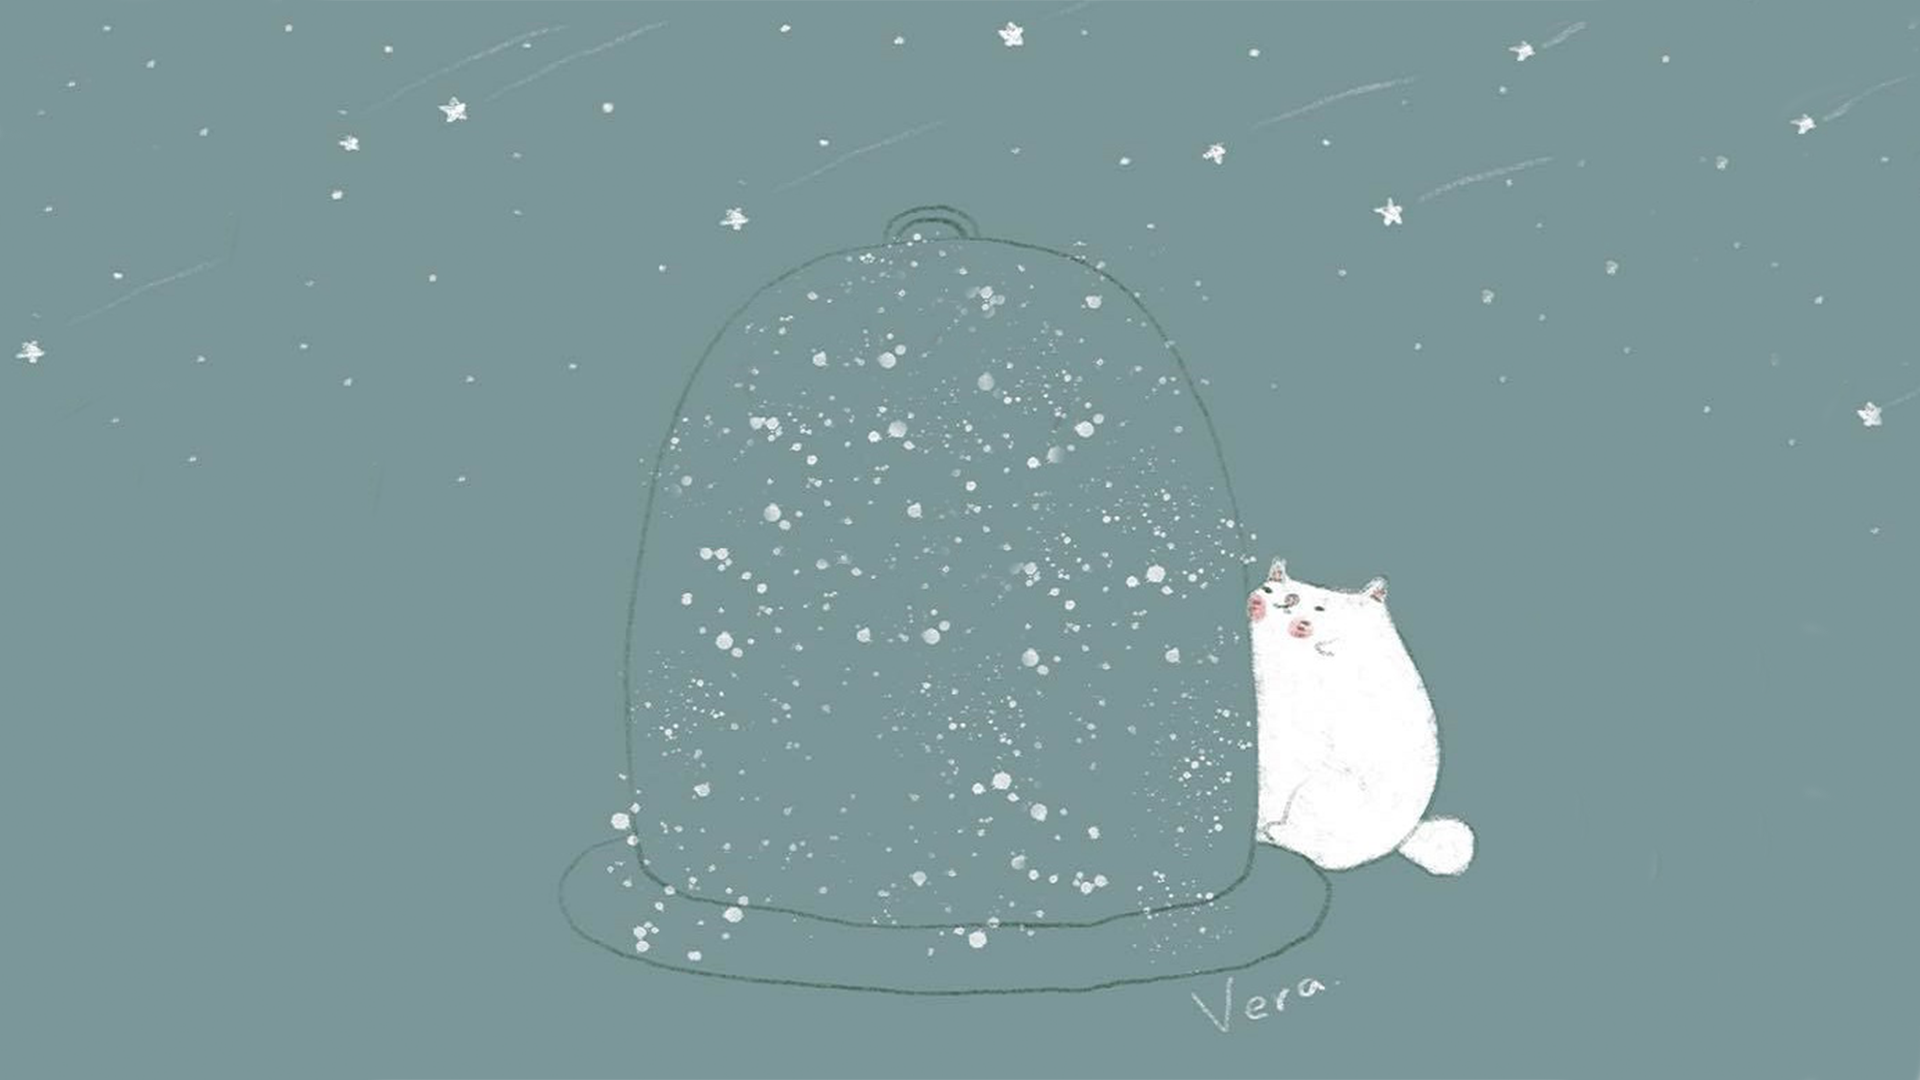
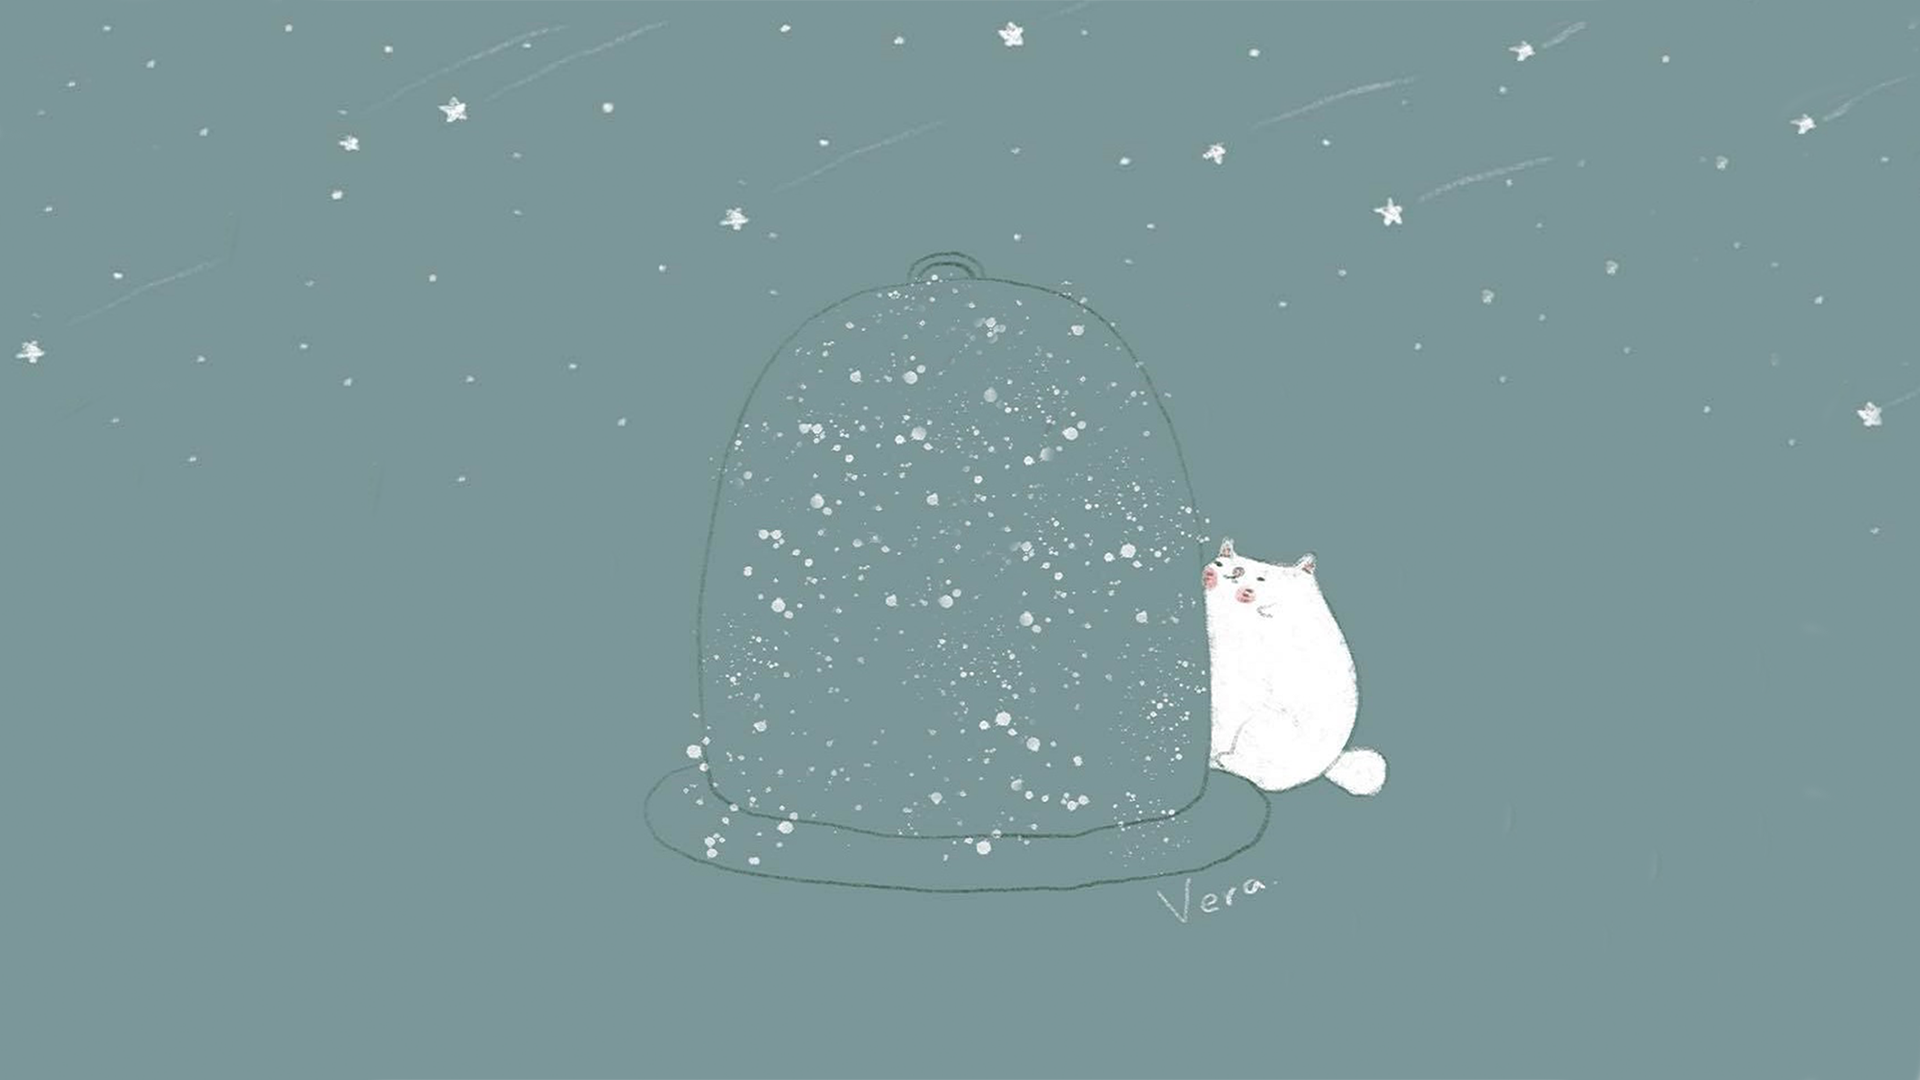
20200219-loading page-mobile

diff --git a/style/style.scss b/style/style.scss
@@ -29,14 +29,15 @@ body {
     overflow-y: hidden;
     z-index: 99999;
 
-    @media (max-width: 991px) {
-        height: 500px;
-        top: calc(50% - 250px);
-    }
+    // @media (max-width: 991px) {
+    //     height: 500px;
+    //     top: calc(50% - 250px);
+    // }
 
-    @media (max-width: 575px) {
-        height: 350px;
-        top: calc(50% - 175px);
+    @media (max-width: 768px) {
+        // height: 100vh;
+        background-image: url("../loading_page/LoadingBG-mobile.png");
+        // top: unset;
     }
 }
 
@@ -53,6 +54,12 @@ body {
     background-repeat: no-repeat;
     clip-path: polygon(0 100%, 100% 100%, 100% 100%, 0 100%);
     position: absolute;
+
+    @media (max-width: 768px) {
+        background-image: url("../loading_page/stem-mobile.png");
+        // top: calc(50% - 175px);
+    }
+
 }
 
 .loading_rose2 {
@@ -65,6 +72,12 @@ body {
     position: absolute;
     opacity: 0;
     transition: ease-in 1s;
+
+    @media (max-width: 768px) {
+        background-image: url("../loading_page/Rose-mobile.png");
+        // top: calc(50% - 175px);
+    }
+
 }
 
 // ------------- navbar start --------------- //

diff --git a/style/style.css b/style/style.css
@@ -27,17 +27,9 @@ body {
   z-index: 99999;
 }
 
-@media (max-width: 991px) {
+@media (max-width: 768px) {
   .loading_bg {
-    height: 500px;
-    top: calc(50% - 250px);
-  }
-}
-
-@media (max-width: 575px) {
-  .loading_bg {
-    height: 350px;
-    top: calc(50% - 175px);
+    background-image: url("../loading_page/LoadingBG-mobile.png");
   }
 }
 
@@ -57,6 +49,12 @@ body {
   position: absolute;
 }
 
+@media (max-width: 768px) {
+  .loading {
+    background-image: url("../loading_page/stem-mobile.png");
+  }
+}
+
 .loading_rose2 {
   width: 100%;
   height: 100%;
@@ -68,6 +66,12 @@ body {
   opacity: 0;
   -webkit-transition: ease-in 1s;
   transition: ease-in 1s;
+}
+
+@media (max-width: 768px) {
+  .loading_rose2 {
+    background-image: url("../loading_page/Rose-mobile.png");
+  }
 }
 
 .header {
